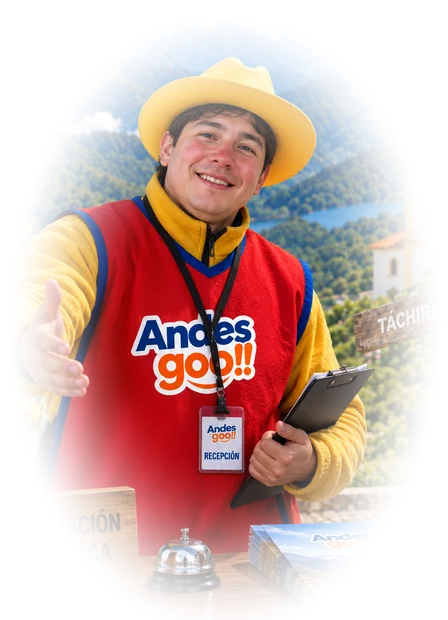
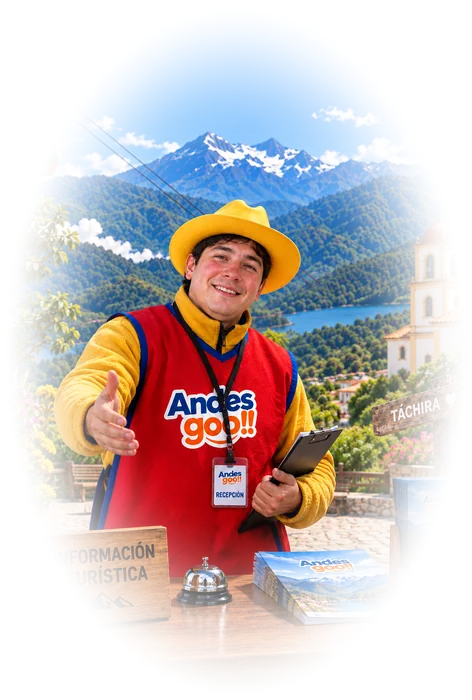
El andinito con su contexto, y el sello más grande y más arriba
La toma anterior era un plano corto: se veía al anfitrión y poco más. Esta
trae lo que lo explica —el mostrador de información, el letrero de Táchira,
el teleférico, la iglesia y la montaña detrás—, así que apenas se recorta:
recortarla la devolvería al plano corto. El difuminado es el mismo, con la
zona opaca un poco más ancha para que el mostrador no se disuelva.

El sello pasa de 186 a 224 px de ancho máximo y sube: estaba centrado con
el titular y ahora se apoya contra su primera línea.

Comprobado a 1440 y a 1180: ninguno de los dos se sale de la portada ni
provoca desplazamiento lateral.

diff --git a/aplicacion.html b/aplicacion.html
@@ -362,14 +362,14 @@ article img, .rounded-xl > div > img{ transition:transform .55s cubic-bezier(.2,
    portada es el titular y las dos puertas, nada más. */
 .tg-adorno{position:absolute;z-index:1;pointer-events:none;user-select:none;
   display:block;height:auto}
-.tg-sello{left:clamp(16px,5vw,86px);top:50%;transform:translateY(-54%);
-  width:clamp(132px,12vw,186px);
+.tg-sello{left:clamp(16px,5vw,84px);top:50%;transform:translateY(-76%);
+  width:clamp(158px,14vw,224px);
   filter:drop-shadow(0 10px 22px rgba(19,41,75,.16))}
-.tg-andinito{right:clamp(0px,2vw,40px);top:50%;transform:translateY(-50%);
-  width:clamp(250px,26vw,356px)}
+.tg-andinito{right:clamp(0px,2vw,36px);top:50%;transform:translateY(-50%);
+  width:clamp(258px,27vw,372px)}
 @media(min-width:1600px){
-  .tg-sello{width:200px}
-  .tg-andinito{width:390px}
+  .tg-sello{width:242px}
+  .tg-andinito{width:404px}
 }
 
 .tg-portada-cuerpo{position:relative;z-index:10;width:100%;max-width:980px;
@@ -4601,7 +4601,7 @@ function Hero({
       className: "tg-adorno tg-andinito",
       src: "/assets/marca/andinito.webp",
       alt: "", "aria-hidden": "true",
-      width: 448, height: 620, decoding: "async"
+      width: 472, height: 700, decoding: "async"
     }),
     /*#__PURE__*/React.createElement("div", { className: "tg-portada-cuerpo" },
       /*#__PURE__*/React.createElement("p", { className: "tg-ojo" },
